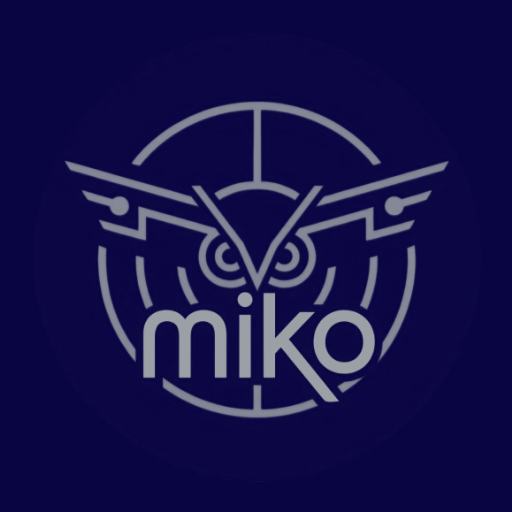
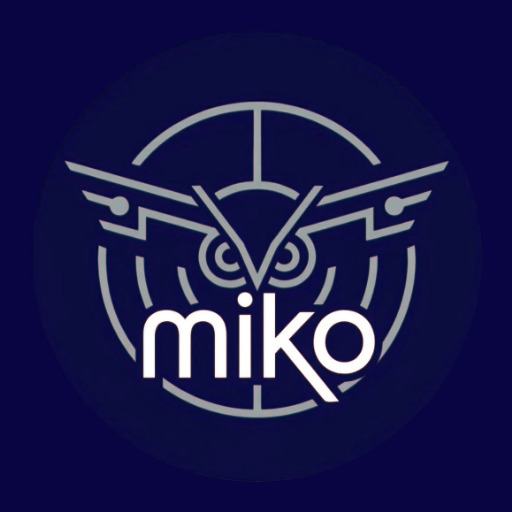
fix: recolour only the blue lines, keep the white wordmark (#93)

Changed region(s): [[0.125, 0.25, 0.875, 0.8125], [0.3438, 0.1875, 0.6562, 0.375]]

diff --git a/lib/brand-environment.ts b/lib/brand-environment.ts
@@ -4,7 +4,7 @@
 // deployments, DUTY_SUPABASE_TARGET (set by the local launchers) otherwise. With neither (tests, plain
 // `next start`) the unchanged navy brand applies.
 export type BrandEnvironment = 'prod' | 'dev' | 'local';
-/** dark is the logo's navy (icon background, same in every environment); light replaces ONLY its cyan lines. */
+/** dark is the logo's navy (icon background, same in every environment); light replaces ONLY its blue lines (the white "miko" wordmark and the navy never change). */
 export const BRAND_ENVIRONMENTS: Record<BrandEnvironment, {dark: string; light: string; nameSuffix: string}> = {
   prod: {dark: '#090442', light: '#19f2f7', nameSuffix: ''},
   dev: {dark: '#090442', light: '#3ddc84', nameSuffix: ' Dev'},
